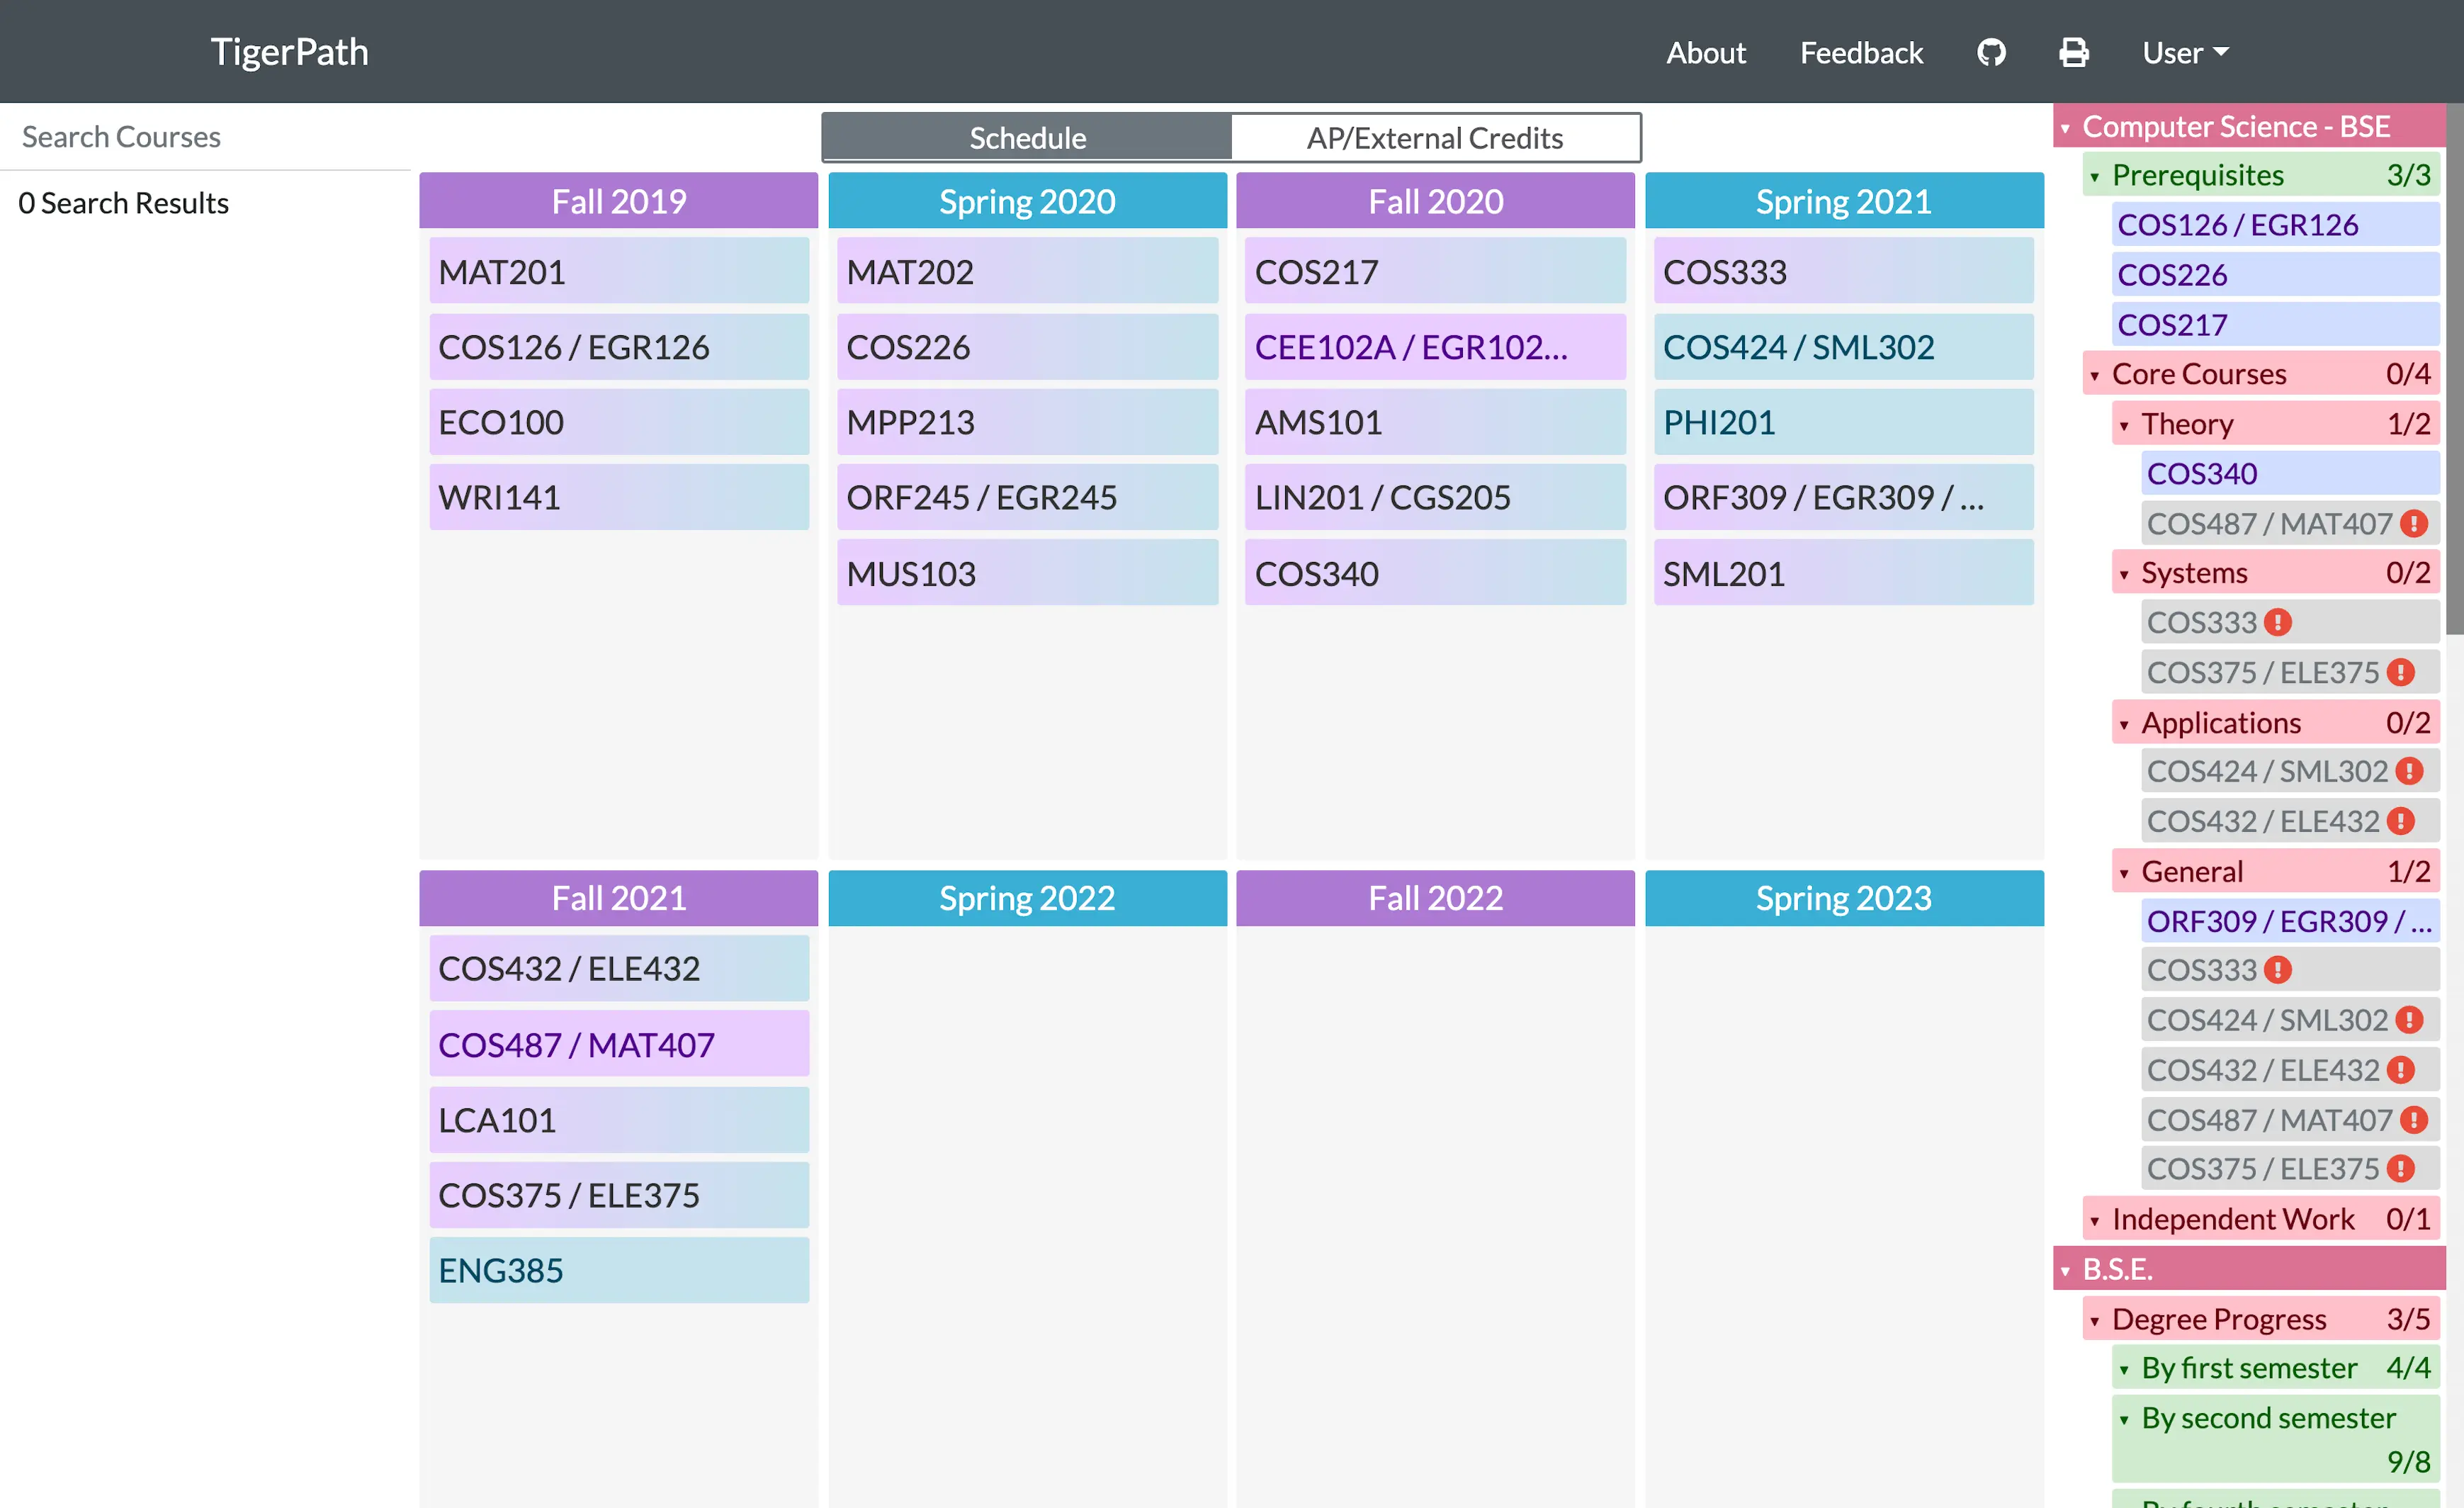
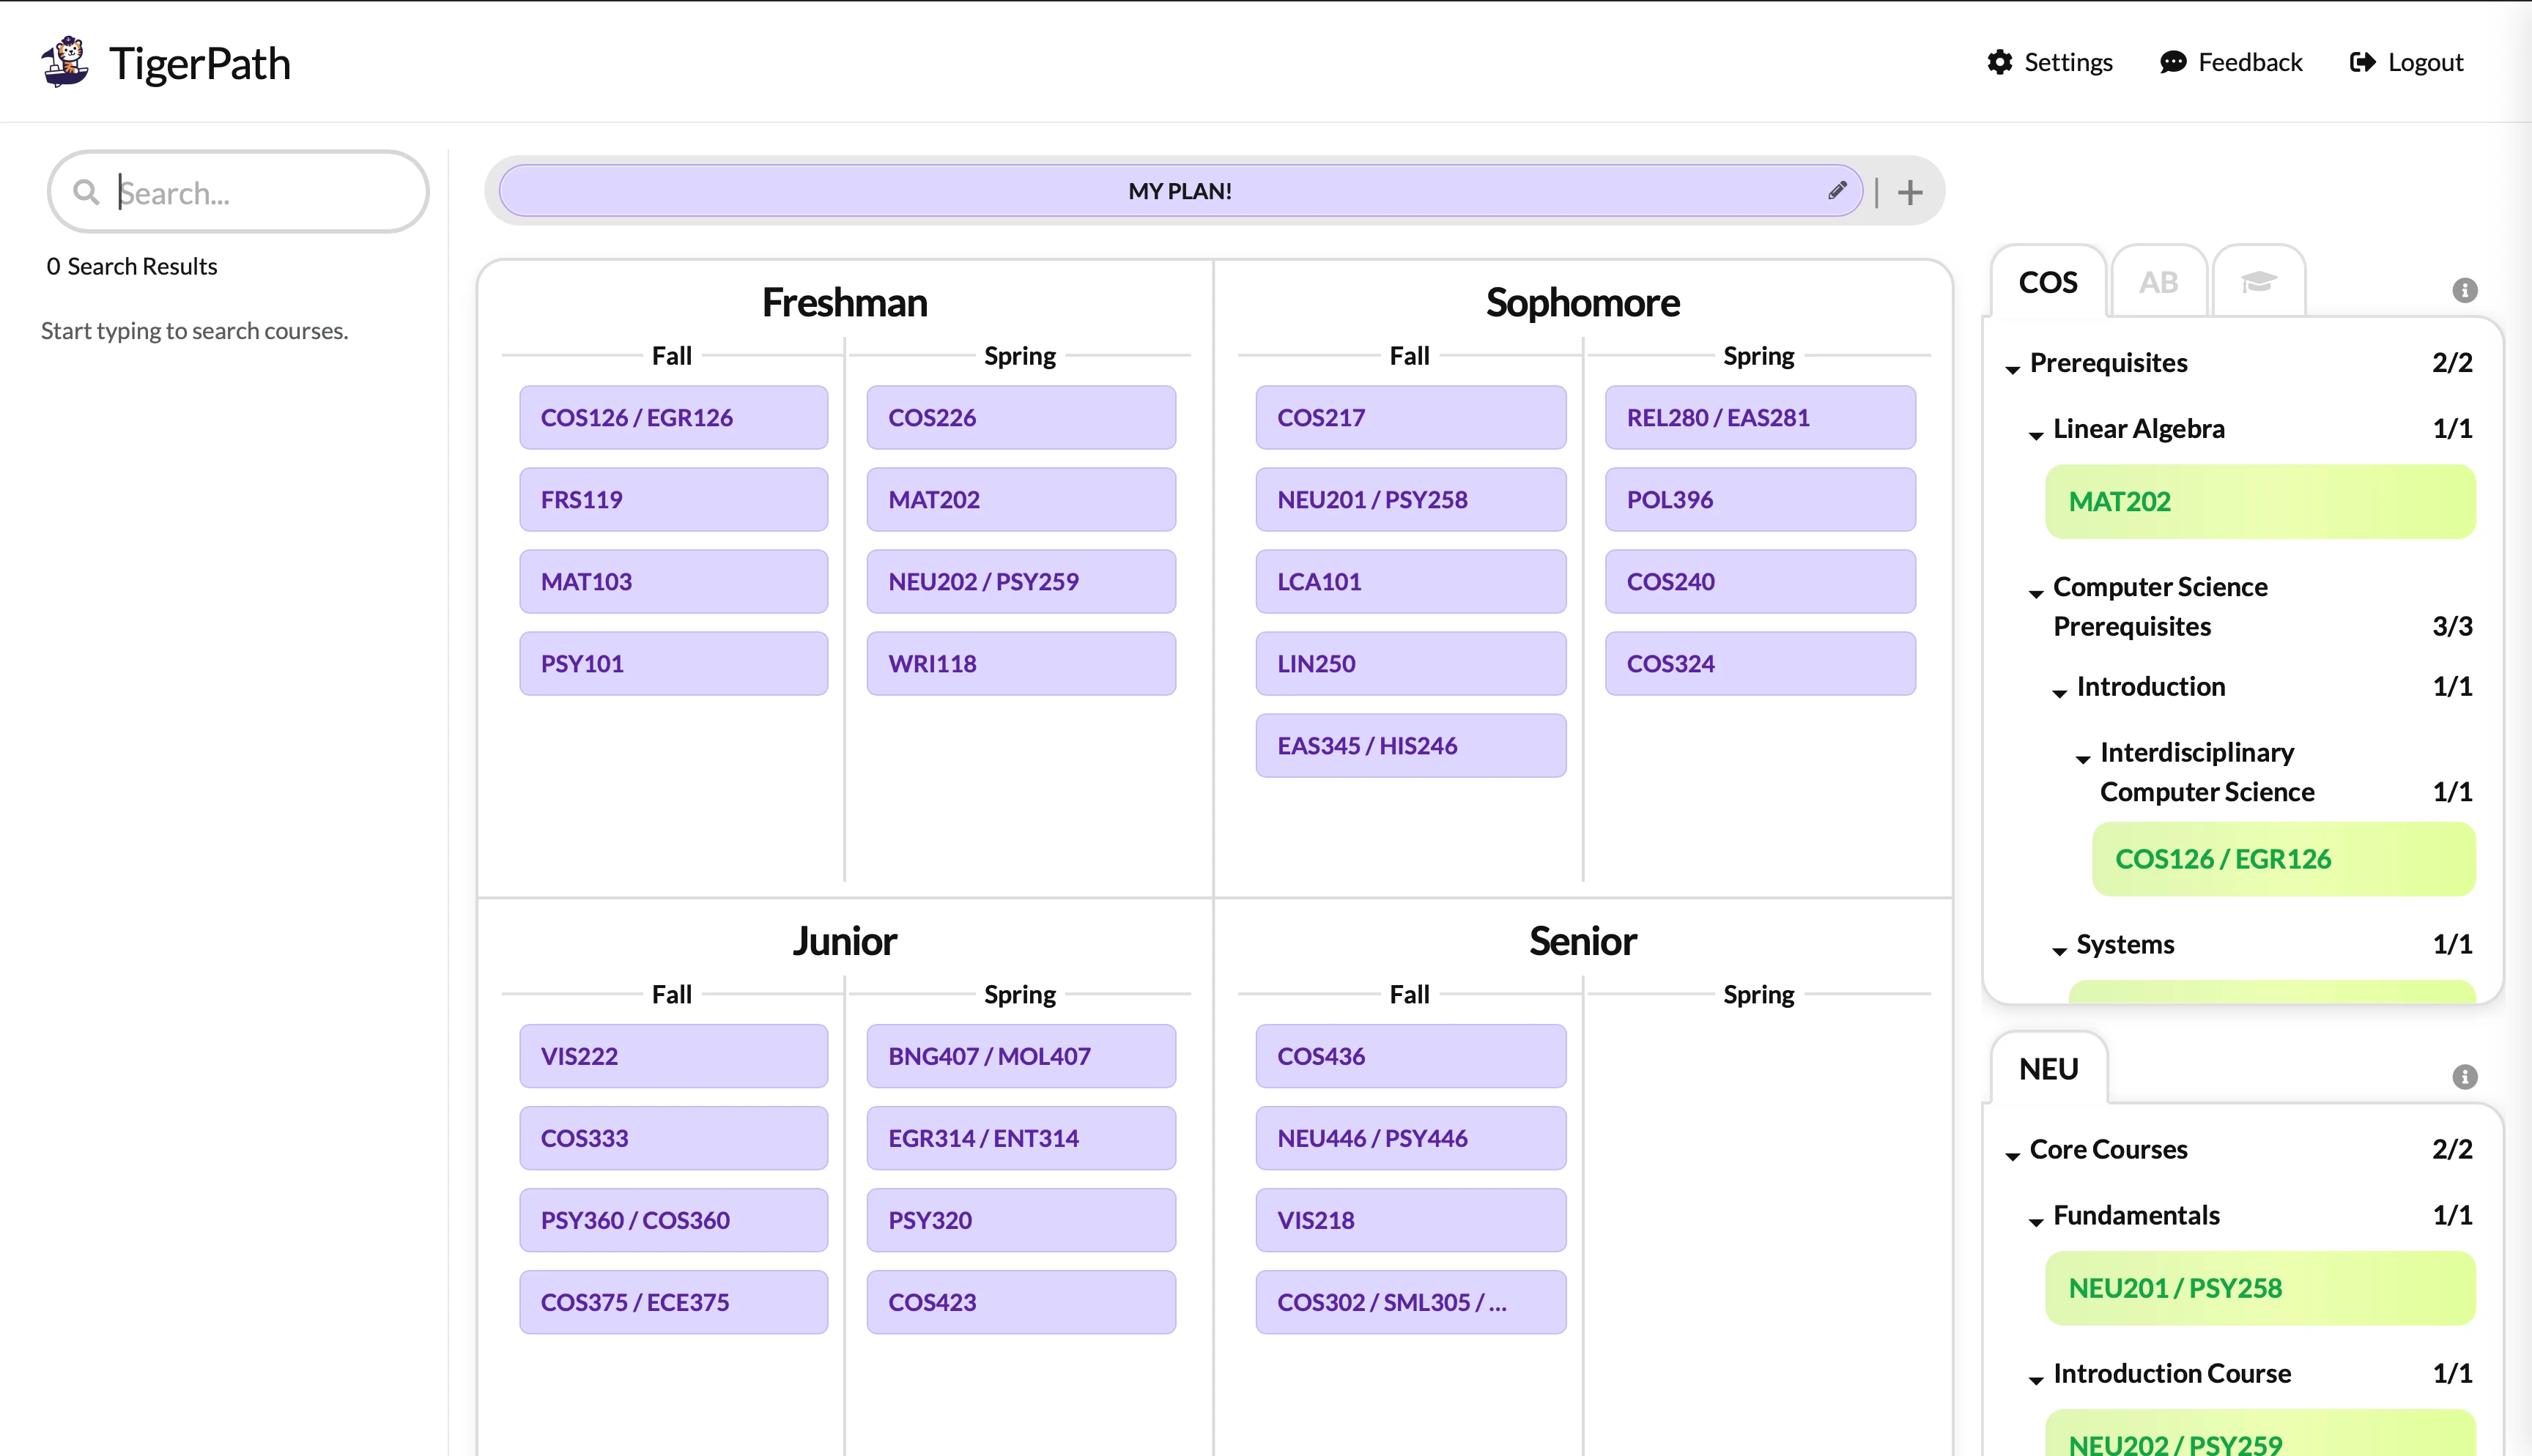
updated TigerPath contributors + preview picture

diff --git a/src/utils/apps.ts b/src/utils/apps.ts
@@ -169,6 +169,20 @@ export const allApps: AppProps[] = [
             { name: "Daniel Leung '20", url: "" },
             { name: "Adeniji Ogunlana '19", url: "" }
         ],
+        additionalContributors: [
+            {
+                startMsg: "Updates by",
+                contributors: [
+                    { name: "Angelina Ji '27", url: "" },
+                    { name: "Niyathi Kukkapalli '28", url: "" },
+                    { name: "Brittney Barnwell '28", url: "" },
+                    { name: "Jiya Shetty '29", url: "" },
+                    { name: "Rohan Matta '29", url: "" },
+                    { name: "Anna Song '29", url: "" },
+                    { name: "Eliana Du '28", url: "" }
+                ]
+            }
+        ],
         category: "Course Planning"
     },
     // Games

diff --git a/AGENTS.md b/AGENTS.md
@@ -1,0 +1,92 @@
+# AGENTS.md
+
+This file provides guidance to Codex (Codex.ai/code) when working with code in this repository.
+
+## Project Overview
+
+This is the static marketing website for TigerApps, a Princeton University student organization. Built with Astro.js and TailwindCSS, it showcases current apps, team members, and serves as the main landing page.
+
+## Development Commands
+
+```bash
+npm run dev        # Start development server
+npm run build      # Build for production
+npm run preview    # Preview production build
+npm run lint       # Check code formatting with Prettier
+npm run format     # Format code with Prettier (auto-fix)
+```
+
+## Code Quality
+
+### Formatting
+
+- Prettier configuration in `.prettierrc` with 4-space indentation
+- Pre-commit hook automatically runs `npm run format` before commits
+- Astro-specific formatting with `prettier-plugin-astro`
+
+## Architecture
+
+### Tech Stack
+
+- **Astro 4.16.18** - Static site generator with component-based architecture
+- **TailwindCSS** - Utility-first CSS with custom design system
+- **TypeScript** - Type safety for component props and data structures
+
+### Key Directories
+
+- `src/pages/` - Route-based pages (index, archive, resources)
+- `src/components/landing/` - Homepage-specific components with co-located data
+- `src/components/page/` - Shared page components (header, footer)
+- `src/components/*/ui/` - Reusable UI components
+- `src/assets/` - Images organized by category (apps/, members/, companies/, archive/)
+
+### Data Management
+
+All content data is **separated into utility files** as TypeScript objects:
+
+- Apps data: `src/utils/apps.ts` - Contains all current app sections with imports and metadata
+- Members data: `src/utils/members.ts` - Contains current/past members and company logos
+- Type definitions: `src/utils/types.ts` - TypeScript interfaces for data structures
+- Archive apps: `src/pages/archive.astro` - Archive app data co-located in the page component
+
+### Design System
+
+Custom TailwindCSS configuration in `tailwind.config.mjs`:
+
+- Primary: `#3EE0BF` (teal green) with hover variant `#4BD9B0`
+- Secondary: `#2B3E50` (dark blue-gray) with hover variant `#34495E`
+- On-primary/secondary text colors for accessibility
+- Use `.cont` and `.constrained` utility classes for consistent layouts
+
+### Component Architecture
+
+- **Astro Components**: Use `.astro` extension with component scripts in frontmatter
+- **Image Optimization**: Import images as ES modules for Astro's built-in optimization
+- **TypeScript Integration**: Type-safe props and data structures throughout
+- **UI Components**: Reusable components in `ui/` subdirectories with standardized props
+
+### Asset Guidelines
+
+- Use `.webp` format for all images
+- Import images as ES modules for Astro optimization
+- Organize by category in `/src/assets/`
+
+## Common Tasks
+
+### Adding New Apps
+
+1. Add app data object to appropriate section in `src/utils/apps.ts`
+2. Add screenshot to `src/assets/apps/` in `.webp` format
+3. Import image at top of `apps.ts` file
+
+### Adding Team Members
+
+1. Add member data to `currentMembers` array in `src/utils/members.ts`
+2. Add headshot to `src/assets/members/` in `.webp` format
+3. Import image at top of `members.ts` file
+
+### Moving Apps to Archive
+
+1. Move data from `src/utils/apps.ts` to the archive array in `src/pages/archive.astro`
+2. Move screenshot from `assets/apps/` to `assets/archive/`
+3. Update import paths in the archive page